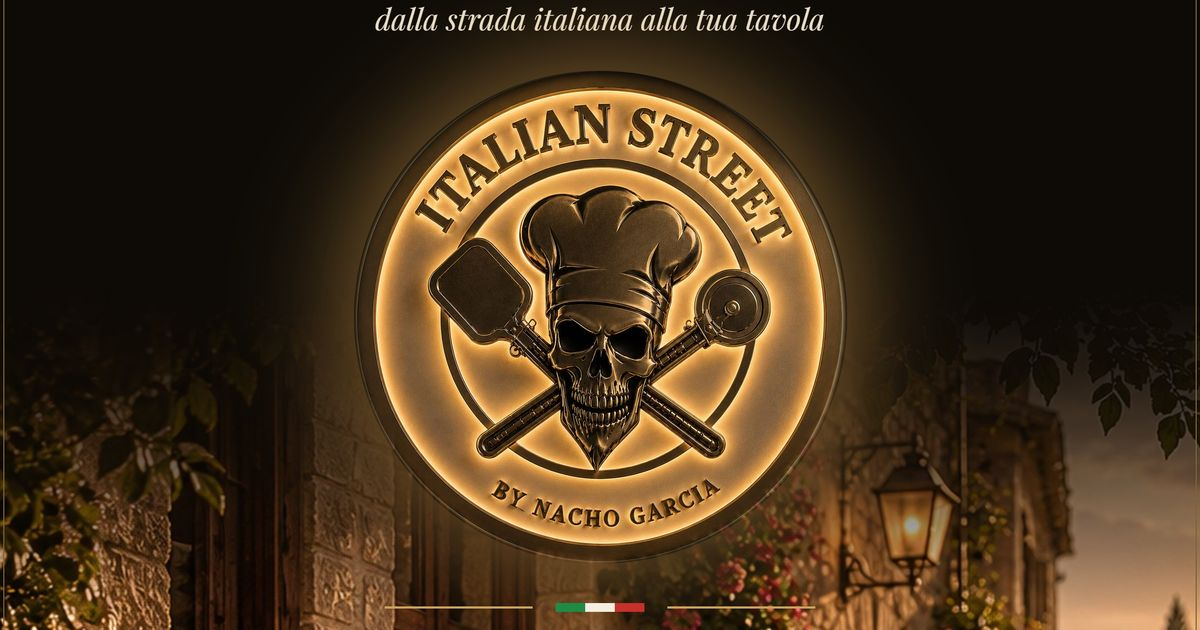
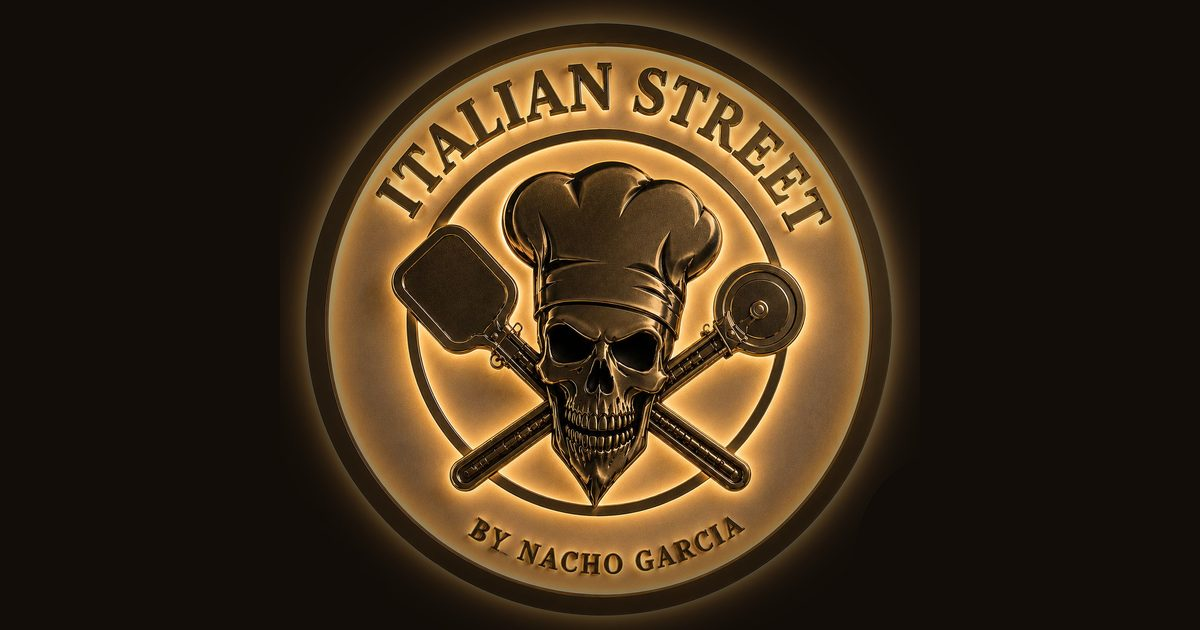
Reservas por WhatsApp o teléfono y nueva portada con el rótulo iluminado
- Todos los botones de «Reservar» abren una ventana con dos opciones:
  WhatsApp (con mensaje ya escrito, y el plato elegido en «Crea tu
  pasta») o llamar. Sin JavaScript siguen llamando.
- La portada usa la foto del rótulo iluminado en lugar de la Vespa.

Claude-Session: https://claude.ai/code/session_01Kzd3GJyo3QjcMrroGKZvWR

diff --git a/italian-street/index.html b/italian-street/index.html
@@ -5,7 +5,7 @@
   <meta name="viewport" content="width=device-width, initial-scale=1">
   <title>Italian Street by Nacho García · Pizza napoletana y pasta en Málaga</title>
   <meta name="description" content="Italian Street by Nacho García: pizza napoletana de fermentación lenta, pasta a tu gusto, pasta rellena, lasañas y postres italianos en Málaga (Av. Jane Bowles, 17). Reserva al 624 25 33 16.">
-  <meta name="theme-color" content="#1c2820">
+  <meta name="theme-color" content="#120d08">
 
   <meta property="og:title" content="Italian Street by Nacho García · Málaga">
   <meta property="og:description" content="Dalla strada italiana alla tua tavola. Pizza napoletana y pasta en Av. Jane Bowles, 17 · Málaga.">
@@ -114,7 +114,7 @@
         <a href="#visitanos">Horario y reservas</a>
       </nav>
 
-      <a class="btn btn--small btn--gold header__cta" href="tel:+34624253316">Reservar</a>
+      <a class="btn btn--small btn--gold header__cta" href="tel:+34624253316" data-reserve>Reservar</a>
 
       <button class="burger" id="burger" aria-label="Abrir menú" aria-expanded="false" aria-controls="nav">
         <span></span><span></span>
@@ -127,8 +127,8 @@
     <!-- ============ PORTADA ============ -->
     <section class="hero">
       <picture class="hero__media">
-        <source media="(max-width: 700px)" srcset="img/hero-movil.jpg">
-        <img src="img/hero.jpg" alt="Vespa con el logo de Italian Street en una calle empedrada italiana al atardecer" width="1800" height="1389" fetchpriority="high">
+        <source media="(max-width: 700px)" srcset="img/portada-movil.jpg">
+        <img src="img/portada.jpg" alt="Rótulo iluminado de Italian Street by Nacho García" width="1200" height="1200" fetchpriority="high">
       </picture>
       <div class="hero__shade" aria-hidden="true"></div>
 
@@ -144,7 +144,7 @@
         </p>
 
         <div class="hero__actions">
-          <a class="btn btn--gold" href="tel:+34624253316">Reservar mesa</a>
+          <a class="btn btn--gold" href="tel:+34624253316" data-reserve>Reservar mesa</a>
           <a class="btn btn--ghost" href="#carta">Ver la carta</a>
         </div>
 
@@ -250,7 +250,7 @@
             <p class="plate__al" id="plateAl"></p>
             <div class="plate__actions">
               <button class="btn btn--light btn--small" id="randomBtn" type="button">Sorpréndeme</button>
-              <a class="btn btn--gold btn--small" href="tel:+34624253316">Reservar y pedirla</a>
+              <a class="btn btn--gold btn--small" href="tel:+34624253316" data-reserve="pasta">Reservar y pedirla</a>
             </div>
           </div>
         </div>
@@ -322,7 +322,7 @@
         <div class="visit__info reveal">
           <p class="kicker">Horario y reservas</p>
           <h2 class="section__title">Te guardamos <em>mesa</em></h2>
-          <p>Te recomendamos reservar con antelación, sobre todo los fines de semana.</p>
+          <p>Reservas solo por WhatsApp o por teléfono. Te recomendamos reservar con antelación, sobre todo los fines de semana.</p>
 
           <dl class="contact">
             <div><dt>Dirección</dt><dd>Av. Jane Bowles, 17<br>Palma-Palmilla, 29011 Málaga</dd></div>
@@ -333,7 +333,7 @@
           <table class="hours" id="hours"></table>
 
           <div class="visit__actions">
-            <a class="btn btn--red" href="tel:+34624253316">Llamar y reservar</a>
+            <a class="btn btn--red" href="tel:+34624253316" data-reserve>Reservar mesa</a>
             <a class="btn btn--outline" href="https://www.google.com/maps/dir/?api=1&destination=Italian+Street+Av.+Jane+Bowles+17+29011+M%C3%A1laga" target="_blank" rel="noopener">Cómo llegar</a>
           </div>
         </div>
@@ -362,12 +362,36 @@
 
   <!-- Barra fija en móvil -->
   <nav class="dock" aria-label="Acciones rápidas">
-    <a href="tel:+34624253316"><span aria-hidden="true">☎</span> Reservar</a>
+    <a href="tel:+34624253316" data-reserve><span aria-hidden="true">☎</span> Reservar</a>
     <a href="#carta"><span aria-hidden="true">☰</span> Carta</a>
     <a href="https://www.google.com/maps/dir/?api=1&destination=Italian+Street+Av.+Jane+Bowles+17+29011+M%C3%A1laga" target="_blank" rel="noopener"><span aria-hidden="true">➤</span> Llegar</a>
   </nav>
 
+  <!-- ============ RESERVAR: WhatsApp o teléfono ============ -->
+  <dialog class="reserve" id="reserve" aria-labelledby="reserveTitle">
+    <div class="reserve__box">
+      <button class="reserve__close" type="button" data-close aria-label="Cerrar">×</button>
+      <img class="reserve__logo" src="img/logo-sm.png" alt="" width="64" height="64">
+      <h2 class="reserve__title" id="reserveTitle">Reserva tu <em>mesa</em></h2>
+      <p class="reserve__text" id="reserveText">¿Cómo prefieres reservar?</p>
+
+      <div class="reserve__options">
+        <a class="reserve__opt reserve__opt--wa" id="reserveWa" href="https://wa.me/34624253316" target="_blank" rel="noopener">
+          <svg viewBox="0 0 32 32" width="28" height="28" aria-hidden="true"><path fill="currentColor" d="M16 3a13 13 0 0 0-11.2 19.6L3 29l6.6-1.7A13 13 0 1 0 16 3zm0 23.7c-2 0-4-.5-5.7-1.6l-.4-.2-3.9 1 1-3.8-.3-.4A10.7 10.7 0 1 1 16 26.7zm5.9-8c-.3-.2-1.9-1-2.2-1-.3-.1-.5-.2-.7.1l-1 1.2c-.2.2-.4.3-.7.1a8.8 8.8 0 0 1-4.4-3.8c-.3-.6.3-.5.9-1.7.1-.2 0-.4 0-.6l-1-2.4c-.3-.6-.5-.5-.7-.5h-.6c-.2 0-.6.1-.9.4-.3.3-1.2 1.1-1.2 2.8s1.2 3.2 1.4 3.5c.2.2 2.3 3.6 5.7 5 2.1.9 3 1 4 .8.7-.1 1.9-.8 2.2-1.5.3-.8.3-1.4.2-1.5l-.7-.4z"/></svg>
+          <span><strong>WhatsApp</strong><small>Te respondemos por mensaje</small></span>
+        </a>
+        <a class="reserve__opt reserve__opt--tel" href="tel:+34624253316">
+          <svg viewBox="0 0 24 24" width="26" height="26" aria-hidden="true"><path fill="currentColor" d="M6.6 10.8a15.1 15.1 0 0 0 6.6 6.6l2.2-2.2c.3-.3.7-.4 1-.2 1.1.4 2.3.6 3.6.6.6 0 1 .4 1 1V20c0 .6-.4 1-1 1A17 17 0 0 1 3 4c0-.6.4-1 1-1h3.5c.6 0 1 .4 1 1 0 1.3.2 2.5.6 3.6.1.3 0 .7-.2 1l-2.3 2.2z"/></svg>
+          <span><strong>Llamar</strong><small>624 25 33 16</small></span>
+        </a>
+      </div>
+
+      <p class="reserve__note">Martes cerrado por descanso · Lunes y miércoles solo mediodía</p>
+    </div>
+  </dialog>
+
   <script src="js/menu.js"></script>
   <script src="js/main.js"></script>
+  <script src="js/reservas.js"></script>
 </body>
 </html>

diff --git a/italian-street/css/styles.css b/italian-street/css/styles.css
@@ -145,17 +145,23 @@ mark { background: rgba(201, 162, 90, .45); color: inherit; border-radius: 3px; 
 
 /* ---------- Portada ---------- */
 .hero {
-  position: relative; min-height: 100svh; display: flex; align-items: flex-end;
-  color: #fff; padding: calc(var(--header-h) + 40px) 0 64px; isolation: isolate; background: var(--green);
+  position: relative; min-height: 100svh; display: flex; align-items: center;
+  color: #fff; padding: calc(var(--header-h) + 40px) 0 64px; isolation: isolate; overflow: hidden;
+  background: radial-gradient(ellipse 60% 70% at 72% 50%, #3b2814 0%, #1c140c 55%, #120d08 100%);
 }
-.hero__media, .hero__media img { position: absolute; inset: 0; width: 100%; height: 100%; z-index: -2; }
-.hero__media img { object-fit: cover; object-position: 50% 60%; animation: heroZoom 18s ease-out both; }
+/* Rótulo iluminado a la derecha, fundido con el fondo */
+.hero__media {
+  position: absolute; z-index: -2; top: 50%; right: max(0px, calc(50% - 700px));
+  width: min(54vw, 96vh); aspect-ratio: 1; transform: translateY(-46%);
+  -webkit-mask-image: radial-gradient(circle closest-side, #000 70%, transparent 100%);
+          mask-image: radial-gradient(circle closest-side, #000 70%, transparent 100%);
+}
+.hero__media img { width: 100%; height: 100%; object-fit: cover; animation: heroGlow 2.4s ease-out both; }
 .hero__shade {
-  position: absolute; inset: 0; z-index: -1;
-  background:
-    linear-gradient(90deg, rgba(16,22,18,.88) 0%, rgba(16,22,18,.55) 45%, rgba(16,22,18,.1) 75%),
-    linear-gradient(180deg, rgba(16,22,18,.55) 0%, transparent 25%, transparent 60%, rgba(16,22,18,.85) 100%);
+  position: absolute; inset: 0; z-index: -1; pointer-events: none;
+  background: linear-gradient(90deg, rgba(18,13,8,.95) 0%, rgba(18,13,8,.8) 36%, rgba(18,13,8,0) 58%);
 }
+@keyframes heroGlow { from { opacity: 0; transform: scale(1.04); filter: brightness(.4); } to { opacity: 1; transform: none; filter: none; } }
 .hero__content { width: 100%; max-width: var(--container); margin: 0 auto; padding: 0 var(--gutter); }
 .hero__title { font-size: clamp(44px, 7.4vw, 96px); font-weight: 700; letter-spacing: -.01em; line-height: 1.02; max-width: 12ch; }
 .hero__title em { color: var(--gold); font-weight: 400; }
@@ -486,8 +492,11 @@ mark { background: rgba(201, 162, 90, .45); color: inherit; border-radius: 3px; 
 
 @media (max-width: 700px) {
   .hero { padding-bottom: 110px; }
-  .hero__media img { object-position: 50% 70%; }
-  .hero__shade { background: linear-gradient(180deg, rgba(16,22,18,.6) 0%, rgba(16,22,18,.15) 30%, rgba(16,22,18,.7) 55%, rgba(16,22,18,.95) 100%); }
+  /* En el móvil: rótulo arriba y el texto debajo */
+  .hero { flex-direction: column; align-items: stretch; min-height: auto; padding-top: var(--header-h); }
+  .hero__media { position: relative; top: auto; right: auto; transform: none; width: min(84vw, 44vh); margin: 0 auto -18px; z-index: 0; }
+  .hero__shade { display: none; }
+  .hero__content { position: relative; }
   .menu-filters { justify-content: stretch; }
   .search { flex-basis: 100%; max-width: none; }
   .toggle, .allergen-filter { flex: 1; }
@@ -507,4 +516,49 @@ mark { background: rgba(201, 162, 90, .45); color: inherit; border-radius: 3px; 
   .gallery { grid-auto-rows: 64px; gap: 8px; }
   .allergen-filter__panel { position: fixed; left: 16px; right: 16px; top: auto; bottom: 90px; width: auto; }
   .hours td span { display: block; margin-left: 0; }
+}
+
+/* ---------- Reservar: WhatsApp o teléfono ---------- */
+html.reserve-open { overflow: hidden; }
+.reserve {
+  border: 0; padding: 0; background: transparent; color: var(--ink);
+  width: min(440px, calc(100vw - 32px)); max-width: none; max-height: none; overflow: visible;
+}
+.reserve::backdrop { background: rgba(16, 22, 18, .7); backdrop-filter: blur(4px); }
+.reserve[open] { animation: reserveIn .3s cubic-bezier(.2, .8, .3, 1); }
+.reserve[open]::backdrop { animation: fadeIn .3s ease; }
+@keyframes reserveIn { from { opacity: 0; transform: translateY(20px) scale(.97); } to { opacity: 1; transform: none; } }
+@keyframes fadeIn { from { opacity: 0; } }
+.reserve__box {
+  position: relative; background: var(--paper); border-radius: 24px; padding: 32px 24px 22px; text-align: center;
+  border: 1px solid rgba(201,162,90,.5); box-shadow: 0 40px 80px -30px rgba(0,0,0,.6);
+}
+.reserve__close {
+  position: absolute; top: 10px; right: 10px; width: 40px; height: 40px; border-radius: 50%;
+  border: 0; background: transparent; font-size: 28px; line-height: 1; color: var(--ink-soft); cursor: pointer;
+}
+.reserve__close:hover { background: var(--cream-2); }
+.reserve__logo { width: 64px; height: 64px; margin: 0 auto 10px; border-radius: 50%; }
+.reserve__title { font-size: 30px; }
+.reserve__title em { color: var(--red); font-weight: 500; }
+.reserve__text { margin: 8px 0 20px; color: var(--ink-soft); font-size: 15px; }
+.reserve__options { display: grid; gap: 10px; }
+.reserve__opt {
+  display: flex; align-items: center; gap: 14px; text-align: left; text-decoration: none;
+  padding: 16px 18px; border-radius: 16px; transition: transform .15s ease, filter .2s ease;
+}
+.reserve__opt:hover { transform: translateY(-2px); filter: brightness(1.05); }
+.reserve__opt strong { display: block; font-size: 17px; }
+.reserve__opt small { display: block; font-size: 13px; opacity: .85; }
+.reserve__opt--wa { background: #1f8f4e; color: #fff; }
+.reserve__opt--tel { background: var(--green); color: var(--cream); }
+.reserve__opt--tel svg { color: var(--gold); }
+.reserve__note { margin: 16px 0 0; font-size: 12px; color: var(--ink-soft); }
+
+@media (max-width: 560px) {
+  /* En el móvil sale desde abajo */
+  .reserve { margin: auto 0 0; width: 100vw; }
+  .reserve__box { border-radius: 24px 24px 0 0; padding-bottom: calc(22px + env(safe-area-inset-bottom)); border-bottom: 0; }
+  .reserve[open] { animation: sheetIn .32s cubic-bezier(.2, .8, .3, 1); }
+  @keyframes sheetIn { from { transform: translateY(100%); } to { transform: none; } }
 }

diff --git a/italian-street/js/reservas.js b/italian-street/js/reservas.js
@@ -1,0 +1,54 @@
+/* =========================================================
+   Italian Street · reservas
+   Todos los botones con [data-reserve] abren una ventana con
+   dos opciones: WhatsApp o llamar. Sin JavaScript, el botón
+   sigue llamando por teléfono.
+   ========================================================= */
+(function () {
+  var PHONE = '34624253316';
+  var dialog = document.getElementById('reserve');
+  if (!dialog || typeof dialog.showModal !== 'function') return; // navegador antiguo: el enlace llama
+  var wa = document.getElementById('reserveWa');
+  var text = document.getElementById('reserveText');
+  var lastTrigger = null;
+
+  function waLink(extra) {
+    var msg = '¡Hola! Me gustaría reservar una mesa en Italian Street.' +
+      (extra ? ' ' + extra : '') +
+      '\n\nDía: \nHora: \nPersonas: ';
+    return 'https://wa.me/' + PHONE + '?text=' + encodeURIComponent(msg);
+  }
+
+  function open(trigger) {
+    lastTrigger = trigger;
+    var extra = '';
+    if (trigger.dataset.reserve === 'pasta') {
+      var plate = document.getElementById('plateName');
+      if (plate && plate.textContent) extra = 'Me gustaría pedir unos ' + plate.textContent + '.';
+    }
+    wa.href = waLink(extra);
+    text.textContent = extra ? 'Reserva y pide tu ' + document.getElementById('plateName').textContent + '. ¿Cómo prefieres reservar?' : '¿Cómo prefieres reservar?';
+    dialog.showModal();
+    document.documentElement.classList.add('reserve-open');
+  }
+
+  function close() { dialog.close(); }
+
+  document.addEventListener('click', function (e) {
+    var t = e.target.closest('[data-reserve]');
+    if (!t) return;
+    e.preventDefault();
+    open(t);
+  });
+
+  dialog.addEventListener('click', function (e) {
+    // Cerrar al pulsar la X, una opción o fuera de la caja
+    if (e.target === dialog || e.target.closest('[data-close]')) close();
+    else if (e.target.closest('.reserve__opt')) setTimeout(close, 300);
+  });
+
+  dialog.addEventListener('close', function () {
+    document.documentElement.classList.remove('reserve-open');
+    if (lastTrigger) lastTrigger.focus();
+  });
+})();

diff --git a/italian-street/css/intro.css b/italian-street/css/intro.css
@@ -48,7 +48,7 @@ html.no-intro .intro { display: none; }
 .door { position: absolute; left: 472px; top: 390px; width: 310px; height: 444px; perspective: 900px; overflow: hidden; }
 .door__inside {
   position: absolute; inset: 0; overflow: hidden;
-  background: #f3c77d url("../img/hero.jpg") center 70% / cover;
+  background: #2a1d10 url("../img/portada-movil.jpg") center / 160% auto no-repeat;
 }
 .door__inside::after {
   content: ""; position: absolute; inset: 0;
